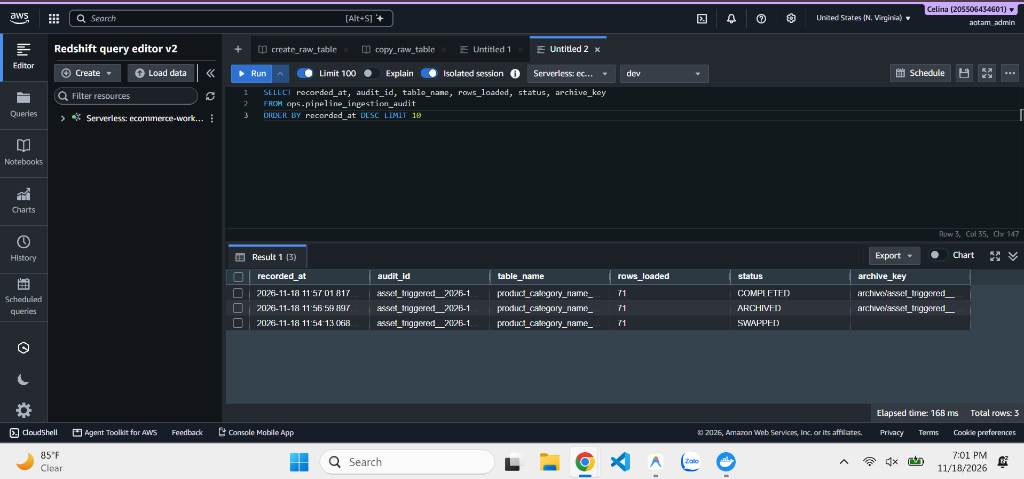
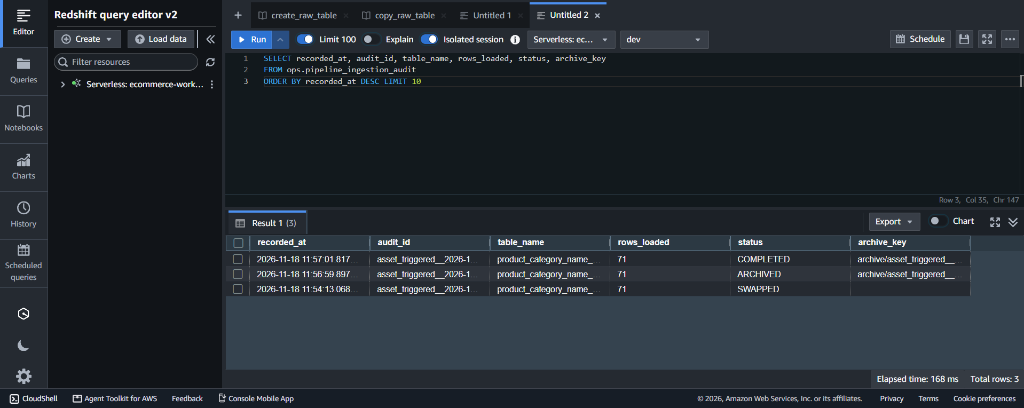
security(images): crop AWS/Gmail screenshots and redact Snowflake account locator

diff --git a/projects/aws-data-pipeline.html b/projects/aws-data-pipeline.html
@@ -236,19 +236,19 @@
             </div>
             <div class="evidence-card">
               <a href="../images/aws/redshift_v5_ops_audit_table.png" target="_blank" rel="noopener noreferrer">
-                <img src="../images/aws/redshift_v5_ops_audit_table.png" alt="Redshift ops.pipeline_ingestion_audit state transition ledger" width="1024" height="479" loading="lazy" />
+                <img src="../images/aws/redshift_v5_ops_audit_table.png" alt="Redshift ops.pipeline_ingestion_audit state transition ledger" width="1024" height="408" loading="lazy" />
               </a>
               <div class="evidence-caption"><strong>Audit Ledger:</strong> <code>ops.pipeline_ingestion_audit</code> logging <code>FAILED</code> (0-row guard) and recovery <code>SWAPPED &rarr; ARCHIVED &rarr; COMPLETED</code>.</div>
             </div>
             <div class="evidence-card">
               <a href="../images/aws/cloudwatch_v5_alarms_in_alarm.png" target="_blank" rel="noopener noreferrer">
-                <img src="../images/aws/cloudwatch_v5_alarms_in_alarm.png" alt="AWS CloudWatch 4 alarms entering ALARM state on poison CSV isolation" width="1024" height="459" loading="lazy" />
+                <img src="../images/aws/cloudwatch_v5_alarms_in_alarm.png" alt="AWS CloudWatch 4 alarms entering ALARM state on poison CSV isolation" width="1024" height="412" loading="lazy" />
               </a>
               <div class="evidence-caption"><strong>Fault Isolation &amp; CloudWatch:</strong> Poison 0-row CSV moved to SQS DLQ after 3 retries, triggering CloudWatch <code>ALARM</code> state.</div>
             </div>
             <div class="evidence-card">
               <a href="../images/aws/gmail_v5_sns_dlq_alarm.png" target="_blank" rel="noopener noreferrer">
-                <img src="../images/aws/gmail_v5_sns_dlq_alarm.png" alt="Amazon SNS real-time email alert delivered to Gmail from DLQ alarm" width="1024" height="447" loading="lazy" />
+                <img src="../images/aws/gmail_v5_sns_dlq_alarm.png" alt="Amazon SNS real-time email alert delivered to Gmail from DLQ alarm" width="727" height="292" loading="lazy" />
               </a>
               <div class="evidence-caption"><strong>SNS Alert Delivery:</strong> Real-time incident notification delivered to Gmail via <code>PipelineAlertTopicPolicy</code> before DLQ Redrive recovery.</div>
             </div>
